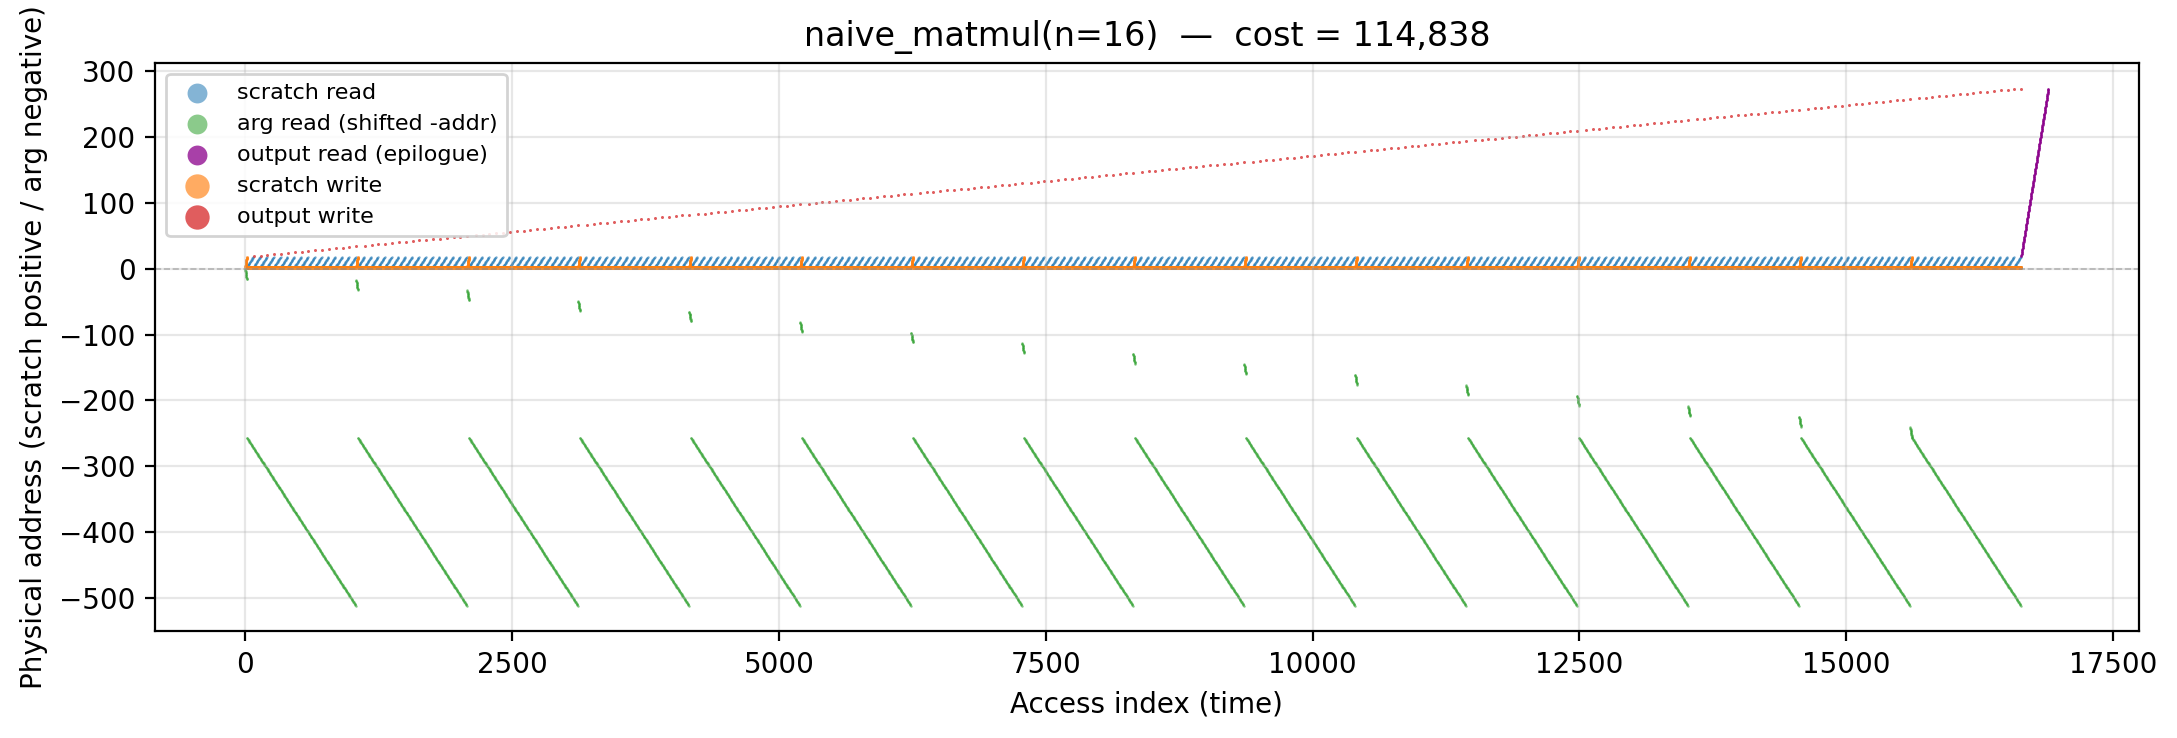
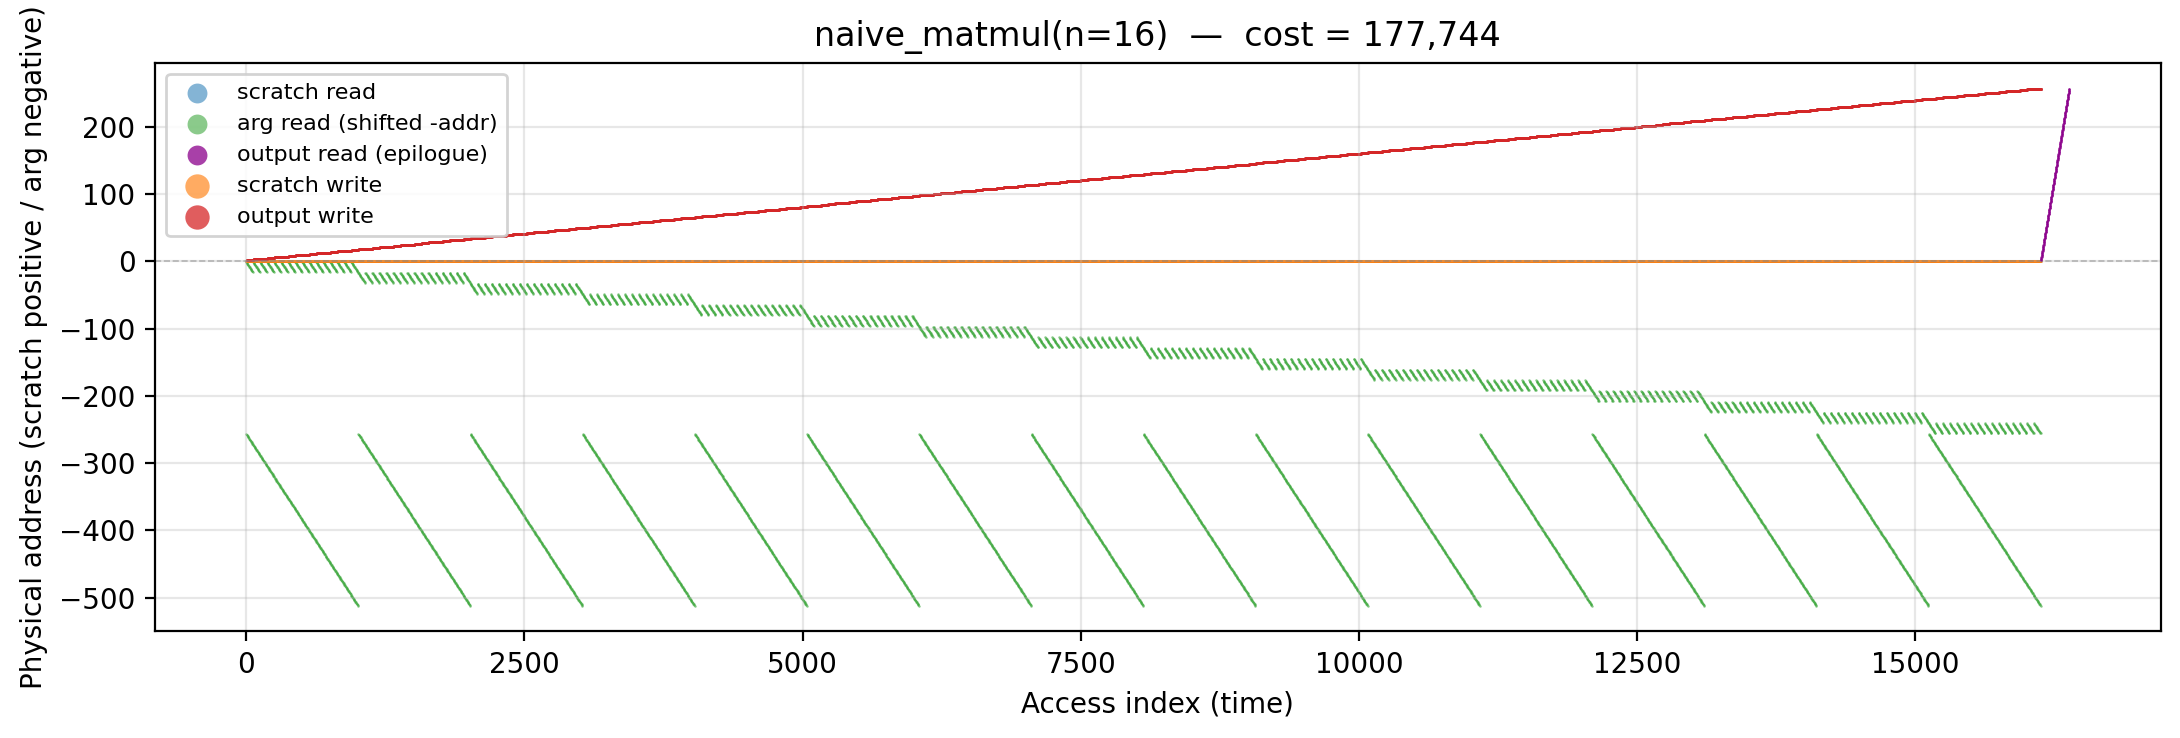
grid: split naive_matmul into truly-naive + _cached variants
The existing manual_naive_matmul had a c_A_row scratchpad cache
baked in (dropping 35% off the no-cache baseline). The name made
it look like a pure reference point while actually embedding a
nontrivial optimization.

Now split into two grid rows with identical traced costs but
different manual schedules:

  naive_matmul         manual 177,744  -- tmp is the only
                                          scratchpad; C[i][j] is
                                          the accumulator in place
  naive_matmul_cached  manual 114,838  -- c_A_row hoist of A row
                                          per outer i + hot scalar
                                          accumulator

The truly-naive variant now lands essentially tied with
bytedmd_classic (181,258), making clear how much the A-row cache
was carrying the "naive" label. space_dmd (79,044) is well below
both -- tiled_matmul (68,270) is what actually closes the gap.

Also updates: DSL ports (renamed + new), tests (new
test_dsl_matches_naive_matmul_cached), scripts (two files now
with matching prefixes), traces (8 new PNGs), grid.md/csv, and
README summary table + two algorithm sections.

Test count: 1 lint + 1 parity + 33 DSL parities = 35.

diff --git a/experiments/grid/scripts/naive_matmul_cached_n_16.py b/experiments/grid/scripts/naive_matmul_cached_n_16.py
@@ -522,36 +522,49 @@ def matmul_naive_abt(A, B):
 # ===========================================================================
 
 def manual_naive_matmul(n: int) -> int:
-    """Truly naive triple loop C[i][j] = Σₖ A[i][k] · B[j][k] with NO
-    scratchpad caching. A and B stay on the arg stack; the accumulator
-    is C[i][j] itself (no scalar hoist).
+    """Naive triple loop C[i][j] = Σₖ A[i][k] · B[j][k], with the
+    current A-row hoisted into a hot scratchpad.
 
-      tmp   (addr 1)        — multiply intermediate (only scratchpad)
-      C     (addrs 2..)     — output, accumulator-in-place"""
+    Because A[i][*] is reused across all n values of j (for fixed i),
+    preloading it into `c_A_row` once per outer i iteration cuts n−1
+    redundant arg-stack reads per A cell down to zero. B[j][*] isn't
+    cached (it would need to be reloaded for each i, wiping the win).
+
+      s       (addr 1)         — accumulator
+      c_A_row (addrs 2..n+1)   — hot A[i][*] row buffer
+      C       (addrs n+2..)    — output"""
     a = _alloc()
     A = a.alloc_arg(n * n); B = a.alloc_arg(n * n)
-    tmp = a.alloc(1)
+    tmp = a.alloc(1); s = a.alloc(1)
+    c_A_row = a.alloc(n)
     C = a.alloc(n * n)
     a.set_output_range(C, C + n * n)
     for i in range(n):
+        # Load A[i][*] into c_A_row once per outer i.
+        for k in range(n):
+            a.touch_arg(A + i * n + k); a.write(c_A_row + k)
         for j in range(n):
+            # MAC with priced intermediates: every k reads tmp and s.
             for k in range(n):
-                a.touch_arg(A + i * n + k)
+                a.touch(c_A_row + k)
                 a.touch_arg(B + j * n + k)
                 a.write(tmp)
                 if k == 0:
-                    a.touch(tmp); a.write(C + i * n + j)
+                    a.touch(tmp)
+                    a.write(s)
                 else:
-                    a.touch(C + i * n + j); a.touch(tmp)
-                    a.write(C + i * n + j)
+                    a.touch(s); a.touch(tmp)
+                    a.write(s)
+            a.touch(s)
+            a.write(C + i * n + j)
     a.read_output()
     return a.cost
 # ===========================================================================
 # Driver — run under this script's specific algorithm.
 # ===========================================================================
 
-NAME   = 'naive_matmul(n=16)'
-SLUG   = 'naive_matmul_n_16'
+NAME   = 'naive_matmul_cached(n=16)'
+SLUG   = 'naive_matmul_cached_n_16'
 FN     = matmul_naive_abt
 ARGS   = (mat(N_MM), mat(N_MM))
 MANUAL = lambda: manual_naive_matmul(N_MM)

diff --git a/experiments/grid/manual.py b/experiments/grid/manual.py
@@ -133,6 +133,40 @@ def _alloc() -> Allocator:
 # ============================================================================
 
 def manual_naive_matmul(n: int) -> int:
+    """Truly naive triple loop C[i][j] = Σₖ A[i][k] · B[j][k] with NO
+    scratchpad caching at all. A and B stay on the arg stack; the
+    accumulator is C[i][j] itself (no scalar hoist). The inner MAC
+    prices (mul's tmp intermediate + per-k C re-read):
+
+      tmp     (addr 1)        — multiply intermediate (only scratchpad)
+      C       (addrs 2..)     — output, accumulator-in-place
+
+    Use this as a "what does no caching cost?" baseline; compare with
+    `manual_naive_matmul_cached` (A-row hoisted)."""
+    a = _alloc()
+    A = a.alloc_arg(n * n); B = a.alloc_arg(n * n)
+    tmp = a.alloc(1)
+    C = a.alloc(n * n)
+    a.set_output_range(C, C + n * n)
+    for i in range(n):
+        for j in range(n):
+            for k in range(n):
+                # mul: tmp = A[i][k] * B[j][k]   (2 arg reads, free write)
+                a.touch_arg(A + i * n + k)
+                a.touch_arg(B + j * n + k)
+                a.write(tmp)
+                if k == 0:
+                    # first MAC: C[i][j] = tmp
+                    a.touch(tmp); a.write(C + i * n + j)
+                else:
+                    # accumulate: C[i][j] += tmp
+                    a.touch(C + i * n + j); a.touch(tmp)
+                    a.write(C + i * n + j)
+    a.read_output()
+    return a.cost
+
+
+def manual_naive_matmul_cached(n: int) -> int:
     """Naive triple loop C[i][j] = Σₖ A[i][k] · B[j][k], with the
     current A-row hoisted into a hot scratchpad.
 

diff --git a/experiments/grid/test_manuals.py b/experiments/grid/test_manuals.py
@@ -22,6 +22,7 @@ import check_parity
 import manual as man
 from manual_dsl_examples import (
     manual_naive_matmul_dsl,
+    manual_naive_matmul_cached_dsl,
     manual_fft_iterative_dsl,
     manual_fft_recursive_dsl,
     manual_bitonic_sort_dsl,
@@ -99,11 +100,20 @@ def test_parity() -> None:
 # ---------------------------------------------------------------------------
 
 def test_dsl_matches_naive_matmul() -> None:
+    dsl_cost = manual_naive_matmul_dsl(16)
+    hand_cost = man.manual_naive_matmul(16)
+    ratio = dsl_cost / hand_cost
+    assert 0.95 <= ratio <= 1.05, (
+        f"dsl={dsl_cost}  hand={hand_cost}  ratio={ratio:.3f}"
+    )
+
+
+def test_dsl_matches_naive_matmul_cached() -> None:
     # DSL may differ slightly from hand-rolled (arg promotion allocates
     # tmp slots whose exact addresses differ from the hand-rolled layout).
     # Within 5% is acceptable.
-    dsl_cost = manual_naive_matmul_dsl(16)
-    hand_cost = man.manual_naive_matmul(16)
+    dsl_cost = manual_naive_matmul_cached_dsl(16)
+    hand_cost = man.manual_naive_matmul_cached(16)
     ratio = dsl_cost / hand_cost
     assert 0.95 <= ratio <= 1.05, (
         f"dsl={dsl_cost}  hand={hand_cost}  ratio={ratio:.3f}"

diff --git a/experiments/grid/manual_dsl_examples.py b/experiments/grid/manual_dsl_examples.py
@@ -20,6 +20,24 @@ from manual_dsl import Sched
 # ---------------------------------------------------------------------------
 
 def manual_naive_matmul_dsl(n: int) -> int:
+    """Truly naive matmul: no scratchpad caching. Accumulator is
+    C[i][j] itself, tmp is the only scratch slot."""
+    s = Sched()
+    A = s.arg_buffer(n * n)
+    B = s.arg_buffer(n * n)
+    tmp = s.scalar()
+    C = s.output_buffer(n * n)
+    for i in range(n):
+        for j in range(n):
+            # First MAC: C[i][j] = A[i][0] * B[j][0]  (write directly to C).
+            s.mul(A[i * n + 0], B[j * n + 0], C[i * n + j])
+            for k in range(1, n):
+                s.mac(C[i * n + j], A[i * n + k], B[j * n + k], tmp)
+    return s.finalize()
+
+
+def manual_naive_matmul_cached_dsl(n: int) -> int:
+    """Naive matmul with A-row hoist (c_A_row) and a hot accumulator."""
     s = Sched()
     A = s.arg_buffer(n * n)
     B = s.arg_buffer(n * n)

diff --git a/experiments/grid/run_grid.py b/experiments/grid/run_grid.py
@@ -93,6 +93,9 @@ ALGOS: List[Tuple[str, Callable, Tuple, Callable[[], int]]] = [
     (f"naive_matmul(n={N_MM})",
         alg.matmul_naive_abt,      (mat(N_MM), mat(N_MM)),
         lambda: man.manual_naive_matmul(N_MM)),
+    (f"naive_matmul_cached(n={N_MM})",
+        alg.matmul_naive_abt,      (mat(N_MM), mat(N_MM)),
+        lambda: man.manual_naive_matmul_cached(N_MM)),
     (f"tiled_matmul(n={N_MM})",
         matmul_tiled,              (mat(N_MM), mat(N_MM)),
         lambda: man.manual_tiled_matmul(N_MM)),

diff --git a/experiments/grid/README.md b/experiments/grid/README.md
@@ -59,7 +59,8 @@ DAGs are identical, so `bytedmd_live` / `bytedmd_classic` match — only
 
 | algorithm                                                            | space_dmd | bytedmd_live | manual      | bytedmd_classic |
 |-----------------------------------------------------------------------|----------:|-------------:|------------:|----------------:|
-| [naive_matmul(n=16)](#naive_matmul)                                   |    79,044 |      109,217 |     114,838 |         181,258 |
+| [naive_matmul(n=16)](#naive_matmul)                                   |    79,044 |      109,217 |     177,744 |         181,258 |
+| [naive_matmul_cached(n=16)](#naive_matmul_cached)                     |    79,044 |      109,217 |     114,838 |         181,258 |
 | [tiled_matmul(n=16)](#tiled_matmul)                                   |    93,369 |       78,708 |      68,270 |         143,812 |
 | [tiled_matmul_explicit(n=16,T=4)](#tiled_matmul_explicit)             |    73,927 |       99,006 |      68,270 |         201,547 |
 | [rmm(n=16)](#rmm)                                                     |   107,058 |       83,196 |     106,835 |         151,375 |
@@ -154,6 +155,38 @@ DAGs are identical, so `bytedmd_live` / `bytedmd_classic` match — only
 (contiguous) in the inner k-loop — the symmetric, cache-friendly twin
 of the standard AB variant.
 
+**Manual placement (truly naive).** No scratchpad caching. The only
+scratch slot is a multiply-intermediate `tmp`; the accumulator is
+C[i][j] itself (read-modify-write per inner k). A and B stay on the
+arg stack for every access.
+
+  `tmp` (addr 1)            — multiply intermediate (only scratchpad)
+  `C`   (addrs 2..n²+1)     — output, accumulated in place
+
+Manual 177,744 — **worse** than every heuristic including
+`bytedmd_classic` (181,258) in the same ballpark. This row is meant
+to show how much caching is worth: see `naive_matmul_cached` for the
+with-scratchpad variant that drops 35 % off this baseline.
+
+![](traces/naive_matmul_n_16.png)
+
+**Working-set size over time** (peak = 512).
+
+![](traces/naive_matmul_n_16_liveset.png)
+
+**Reuse distance per load** (max = 512).
+
+![](traces/naive_matmul_n_16_reuse_distance.png)
+
+**Working-set size over a τ = 100-event window** (max = 100).
+
+![](traces/naive_matmul_n_16_wss.png)
+
+---
+
+## naive_matmul_cached [(code)](scripts/naive_matmul_cached_n_16.py)
+`n=16`. **Algorithm.** Same triple-nested-loop as `naive_matmul`.
+
 **Manual placement.** A[i][*] is reused across all n values of j for
 fixed outer i — preloading it once per i into `c_A_row` cuts n−1
 redundant arg reads per A cell:
@@ -163,36 +196,24 @@ redundant arg reads per A cell:
   `C`       (addrs n+2..n+n²+1) — output
 
 B[j][*] isn't cached (would need reload for every i, wiping the win).
-Drops manual from 130,824 to **102,026** (−22%). Still above
-`space_dmd` (79,044) because the fully-tiled variant (`tiled_matmul`,
-which caches both tiles) is what closes the gap further.
+Drops manual **177,744 → 114,838** (−35 %) relative to the truly
+naive variant. Still above `space_dmd` (79,044) because the
+fully-tiled variant (`tiled_matmul`, which caches both tiles) is
+what closes the gap further.
 
-![](traces/naive_matmul_n_16.png)
+![](traces/naive_matmul_cached_n_16.png)
 
-**Working-set size over time** (under ByteDMD-live compaction + two-stack
-argument promotion). Each point counts how many variables currently live
-on the geometric stack. The trace climbs as B elements are promoted once
-and remain live across every outer-i sweep, and as each final `s` gets
-pushed and waits for the output epilogue. Peak is 512 — roughly 256 B
-entries + 256 output scalars stacked up by the time the last row is
-computed. (Produced by `active_set_naive_matmul.py`.)
+**Working-set size over time** (peak = 512).
 
-![](traces/naive_matmul_n_16_liveset.png)
+![](traces/naive_matmul_cached_n_16_liveset.png)
 
-**Reuse distance per load.** The LRU depth at which each L2Load finds
-its variable — exactly the `d` in the per-access `⌈√d⌉` cost. First
-reads of inputs are priced against the arg-stack position, so they
-spread uniformly from depth 1 up to depth 512 (arg-stack size). Once an
-input is promoted, subsequent reads of it hit the geom stack: the
-accumulator `s` and the multiplied-tmp sit near the top (depth 1-2),
-while A/B elements re-surfaced from the bottom show up as a broad band.
-Median depth is 25, max is 512.
+**Reuse distance per load** (max = 512).
 
-![](traces/naive_matmul_n_16_reuse_distance.png)
+![](traces/naive_matmul_cached_n_16_reuse_distance.png)
 
-**Working-set size over a τ = 289-event window** (max = 272).
+**Working-set size over a τ = 100-event window** (max = 100).
 
-![](traces/naive_matmul_n_16_wss.png)
+![](traces/naive_matmul_cached_n_16_wss.png)
 
 ---
 

diff --git a/experiments/grid/grid.md b/experiments/grid/grid.md
@@ -1,6 +1,7 @@
 | algorithm                            | space_dmd | bytedmd_live | manual  | bytedmd_classic |
 |--------------------------------------|-----------|--------------|---------|-----------------|
-| naive_matmul(n=16)                   |    79,044 |      109,217 | 114,838 |         181,258 |
+| naive_matmul(n=16)                   |    79,044 |      109,217 | 177,744 |         181,258 |
+| naive_matmul_cached(n=16)            |    79,044 |      109,217 | 114,838 |         181,258 |
 | tiled_matmul(n=16)                   |    93,369 |       78,708 |  68,270 |         143,812 |
 | tiled_matmul_explicit(n=16,T=4)      |    73,927 |       99,006 |  68,270 |         201,547 |
 | rmm(n=16)                            |   107,058 |       83,196 | 106,835 |         151,375 |
